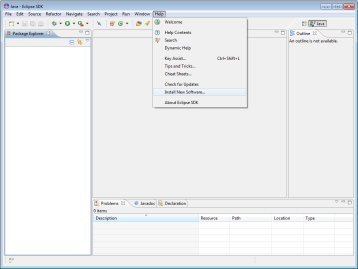
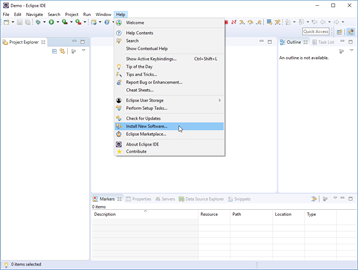
JMC-5541: Updating JMC landing page with new coordinates and screenshots Reviewed-by: ghb

Changed region(s): [[0.0, 0.0, 1.0, 1.0]]

diff --git a/application/org.openjdk.jmc.updatesite.ide/src/main/resources/update-site-instructions/index.html b/application/org.openjdk.jmc.updatesite.ide/src/main/resources/update-site-instructions/index.html
@@ -39,7 +39,7 @@
           facility. The following URL functions as an update site. Novice users can follow
           the step-by-step instructions.<br><br>
           
-          <b>http://download.oracle.com/technology/products/missioncontrol/updatesites/base/7.0.0/eclipse/</b><br><br>
+          <b>http://download.oracle.com/technology/products/missioncontrol/updatesites/openjdk/7.0.0/eclipse/</b><br><br>
 
           <p class="section-header"><b>Step-by-Step Instructions</b></p>
           
@@ -76,7 +76,7 @@
                 <ol start="2">
                   <li>
                     <p>Fill in the following URL in the <b>Work with:</b> text field:</p>
-                    	<p><b>http://download.oracle.com/technology/products/missioncontrol/updatesites/base/7.0.0/eclipse/</b></p>
+                    	<p><b>https://download.oracle.com/technology/products/missioncontrol/updatesites/openjdk/7.0.0/eclipse/</b></p>
                     	<p>Press the return key.</p>
                   </li>
                 </ol>
@@ -92,7 +92,7 @@
               <td class="instructions-cell">
                 <ol start="3">
                   <li>
-                    Make sure that the check box next to JDK Mission Control list 
+                    Make sure that the check box next to the Mission Control/Base(Required) list 
                     entry is checked. Click on the <b>Next</b> button.
                   </li>
                 </ol>
@@ -139,7 +139,7 @@
               <td class="instructions-cell">
                 <ol start="6">
                   <li>
-                    Wait for the plug-ins to be downloaded, then click <b>Yes</b> to restart Eclipse and finish the installation.                   
+                    Wait for the plug-ins to be downloaded, then click <b>Restart Now</b> to restart Eclipse and finish the installation.                   
                   </li>
                 </ol>
               </td>
